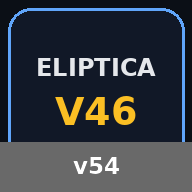
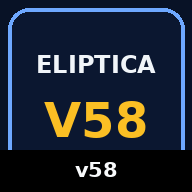
Add files via upload

diff --git a/app.js b/app.js
@@ -1,13 +1,15 @@
 (() => {
 'use strict';
-const APP_VERSION='v56';
-const BUILD='2026-04-09 23:59';
+const APP_VERSION='v58';
+const BUILD='2026-04-07 01:05';
 const $=id=>document.getElementById(id);
 const STATE_KEY=`eliptica_state_${APP_VERSION}`; const LAST_SESSION_KEY='lastCompletedSession'; const state={phase:'idle',plan:null,startTs:null,pausedAccumMs:0,pauseTs:null,elapsedSec:0,lastSec:-1,realOffset:0,history:[],logs:[],installPrompt:null,bannerIndex:0,bannerHoldMs:5000,bannerLastChange:0,bpmSamples:[],swReg:null,lastActionTs:0,lastRenderTick:0,voice:{supported:('speechSynthesis' in window),unlocked:false,enabled:true,voices:[],selectedURI:'',queue:[],speaking:false,lastByKey:{},volume:1,rate:1,browserNotify:false,beepEnabled:true},audio:{ctx:null,unlocked:false},alerts:{lastKey:{},lastSecChecked:-1,lastNotifTs:0},ble:{device:null,server:null,hrChar:null,connected:false,lastPacketTs:0,deviceName:'',autoAttempted:false}};
 const els={};
 const ids=['timelineBar','timelineMarkers','playhead','tickerNow','tickerMsg','tickerEta','sessionBadge','planTitle','timeBig','timeRealLabel','kPlanBig','kRealBig','bpmBig','bpmTargetLabel','avgPlanLabel','avgRealLabel','deviationTotalLabel','deviationSegmentLabel','realRateLabel','planRateLabel','waterCountLabel','upcomingBody','upcomingVisibleLabel','waterNextLabel','waterProgressBar','chipBle','chipPulse','chipSession','chipSaved','chipWater','chipAlerts','chipApp','chipTest','bleStatusLabel','bleBpmBig','ble5s','ble10s','ble30s','bleLastPkt','bleDeviceName','planInput','importOutput','versionLabel','pwaStateLabel','logBox','voiceSelect','voiceStatus','voiceVolumeRange','voiceVolumeVal','voiceRateRange','voiceRateVal','browserNotifyChk','voiceAlertsChk','beepAlertsChk'];
 function cacheEls(){ids.forEach(id=>els[id]=$(id)); if(els.versionLabel) els.versionLabel.textContent=`${APP_VERSION} · ${BUILD}`;}
 function addLog(msg){const t=new Date().toTimeString().slice(0,8); state.logs.push(`[${t}] ${msg}`); if(state.logs.length>800) state.logs.shift(); if(els.logBox){els.logBox.textContent=state.logs.join('\n'); els.logBox.scrollTop=els.logBox.scrollHeight;}}
+function setPwaState(msg){ if(els.pwaStateLabel) els.pwaStateLabel.textContent = msg; }
+function appUrl(path='index.html'){ return `./${path}?v=${APP_VERSION}&t=${Date.now()}`; }
 
 function unlockAudio(){
   try{
@@ -374,6 +376,7 @@ function bind(){
   B('bleDiagBtn','bleDiag',bleDiag);
   B('installAppBtn','installApp',installApp);
   B('updateAppBtn','updateApp',updateApp);
+  B('forceReloadBtn','forceReload',forceReloadApp);
   B('notifPermissionBtn','notifPermission',requestNotificationPermission);
   B('testNotifyBtn','testNotify',testNotify);
   B('refreshVoicesBtn','refreshVoices',()=>{ refreshVoices(); if(els.importOutput) els.importOutput.textContent = (state.voice.voices||[]).map(v=>`${v.name} · ${v.lang}`).join('\n') || 'Sin voces detectadas'; });
@@ -417,14 +420,14 @@ function bpmDisplay(){const arr=state.bpmSamples; if(!arr.length) return null; c
 function avgBpmWindow(secWindow){const now=Date.now(); const items=state.bpmSamples.filter(x=>now-x.ts<=secWindow*1000); if(!items.length) return null; return items.reduce((a,b)=>a+b.bpm,0)/items.length}
 function parsePlan(text){const lines=text.split(/\r?\n/).map(s=>s.trim()).filter(Boolean); const segments=[], water=[], bpmApp={}, bpmDay={}; let totalTime=null,totalKcal=null, mode=''; for(let i=0;i<lines.length;i++){const line=lines[i]; if(/^BPM OPERATIVO/i.test(line)){mode='bpmApp'; continue} if(/^BPM DEL DÍA/i.test(line)){mode='bpmDay'; continue} if(/^AGUA EN ELÍPTICA/i.test(line)){mode='water'; continue} if(/^TOTAL PREVISTO/i.test(line)){mode='total'; continue}
 const segLine=line.match(/^([A-Z])\)\s+(\d{2}:\d{2})\s*[·-].*?(TEST\s+)?NIVEL\s+(\d+)/i); if(segLine){const id=segLine[1]; const [mm,ss]=segLine[2].split(':').map(Number); const isTest=!!segLine[3]; const level=Number(segLine[4]); let kcalTarget=0; const next=lines[i+1]||''; const km=next.match(/objetivo\s*~?(\d+(?:[.,]\d+)?)(?:[–-](\d+(?:[.,]\d+)?))?/i); if(km) kcalTarget=Number(String(km[2]||km[1]).replace(',','.')); segments.push({id,durationSec:mm*60+ss,level,isTest,kcalTarget}); continue}
-const seg2=line.match(/^([A-Z])\)\s+\d{2}:\d{2}[–-]\d{2}:\d{2}\s*(?:→|->)\s*(TEST\s+)?NIVEL\s+(\d+)\s*(?:→|->)\s*~?(\d+(?:[.,]\d+)?)(?:[–-](\d+(?:[.,]\d+)?))?/i); if(seg2){segments.push({id:seg2[1],durationSec:0,level:Number(seg2[3]),isTest:!!seg2[2],kcalTarget:Number(String(seg2[4]||seg2[5]).replace(',','.'))}); continue}
+const seg2=line.match(/^([A-Z])\)\s+(\d{2}:\d{2})\s*[–-]\s*(\d{2}:\d{2})\s*(?:→|->)\s*(TEST\s+)?NIVEL\s+(\d+)\s*(?:→|->)\s*~?(\d+(?:[.,]\d+)?)(?:[–-](\d+(?:[.,]\d+)?))?/i); if(seg2){const [sh,sm]=seg2[2].split(':').map(Number); const [eh,em]=seg2[3].split(':').map(Number); let durationSec=((eh*60+em)-(sh*60+sm))*60; if(durationSec<=0) durationSec+=24*3600; segments.push({id:seg2[1],durationSec,level:Number(seg2[5]),isTest:!!seg2[4],kcalTarget:Number(String(seg2[7]||seg2[6]).replace(',','.'))}); continue}
 if(mode==='water'){const w=line.match(/(?:Minuto|min)\s*(\d{2}:\d{2})/i); if(w) water.push(w[1])}
 if(mode==='total'){const tm=line.match(/Tiempo:\s*(\d{2}:\d{2})/i); if(tm) totalTime=tm[1]; const km=line.match(/Kcal.*?~?(\d+(?:[.,]\d+)?)(?:[–-](\d+(?:[.,]\d+)?))?/i); if(km) totalKcal=Number(String(km[2]||km[1]).replace(',','.'))}
 if(mode==='bpmApp'){const bm=line.match(/Nivel\s+(\d+)\s*:\s*(\d+)[–-](\d+)/i); if(bm) bpmApp[Number(bm[1])]={min:Number(bm[2]),max:Number(bm[3])}}
 if(mode==='bpmDay'){const bm=line.match(/Nivel\s+(\d+).+?(\d+)[–-](\d+)/i); if(bm) bpmDay[Number(bm[1])]={min:Number(bm[2]),max:Number(bm[3])}}
 }
-if(!segments.length) throw new Error('No se detectaron tramos'); const duration=segments.reduce((a,s)=>a+s.durationSec,0); return {title:`ELÍPTICA ${APP_VERSION.toUpperCase()} · ${totalTime||fmt(duration)} · ~${Math.round(totalKcal||segments.reduce((a,s)=>a+s.kcalTarget,0))} kcal`,segments,water,bpmApp,bpmDay,totalTime,totalKcal,normalizedText:text}}
-function normalizeText(plan=state.plan){if(!plan) return ''; const rows=[]; rows.push(plan.title.replace(` ${APP_VERSION.toUpperCase()}`,'')); rows.push(''); plan.segments.forEach(seg=>{rows.push(`${seg.id}) ${fmt(seg.durationSec)} · ${seg.isTest?'TEST ':''}NIVEL ${seg.level}`); rows.push(`→ objetivo ~${seg.kcalTarget} kcal`); rows.push('');}); rows.push('AGUA EN ELÍPTICA'); plan.water.forEach(w=>rows.push(`Minuto ${w}`)); rows.push(''); rows.push('TOTAL PREVISTO'); rows.push(`- Tiempo: ${plan.totalTime||fmt(planDuration())}`); rows.push(`- Kcal máquina: ~${Math.round(plan.totalKcal||plan.segments.reduce((a,s)=>a+s.kcalTarget,0))} kcal`); return rows.join('\n')}
+if(!segments.length) throw new Error('No se detectaron tramos'); const duration=segments.reduce((a,s)=>a+s.durationSec,0); return {title:`ELÍPTICA ${APP_VERSION} · ${totalTime||fmt(duration)} · ~${Math.round(totalKcal||segments.reduce((a,s)=>a+s.kcalTarget,0))} kcal`,segments,water,bpmApp,bpmDay,totalTime,totalKcal,normalizedText:text}}
+function normalizeText(plan=state.plan){if(!plan) return ''; const rows=[]; rows.push(plan.title.replace(` ${APP_VERSION}`,'')); rows.push(''); plan.segments.forEach(seg=>{rows.push(`${seg.id}) ${fmt(seg.durationSec)} · ${seg.isTest?'TEST ':''}NIVEL ${seg.level}`); rows.push(`→ objetivo ~${seg.kcalTarget} kcal`); rows.push('');}); rows.push('AGUA EN ELÍPTICA'); plan.water.forEach(w=>rows.push(`Minuto ${w}`)); rows.push(''); rows.push('TOTAL PREVISTO'); rows.push(`- Tiempo: ${plan.totalTime||fmt(planDuration())}`); rows.push(`- Kcal máquina: ~${Math.round(plan.totalKcal||plan.segments.reduce((a,s)=>a+s.kcalTarget,0))} kcal`); return rows.join('\n')}
 function applyPlan(){const text=els.planInput.value.trim(); if(!text) throw new Error('No hay texto de plan'); state.plan=parsePlan(text); state.phase='idle'; state.elapsedSec=0; state.realOffset=0; state.history=[]; els.importOutput.textContent=normalizeText(); els.planTitle.textContent=state.plan.title; renderTimeline(); persist(); addLog(`[PLAN] Cargado · ${state.plan.segments.length} tramos · agua ${state.plan.water.length}`)}
 function previewPlan(){const text=els.planInput.value.trim(); const p=parsePlan(text); els.importOutput.textContent=`TRAMOS: ${p.segments.length}\nDURACIÓN: ${p.totalTime||fmt(p.segments.reduce((a,s)=>a+s.durationSec,0))}\nKCAL: ~${Math.round(p.totalKcal||p.segments.reduce((a,s)=>a+s.kcalTarget,0))}\nAGUA: ${p.water.join(', ')||'ninguna'}\nTESTS: ${p.segments.filter(s=>s.isTest).map(s=>s.id).join(', ')||'ninguno'}`}
 function normalizePlan(){const text=els.planInput.value.trim(); const p=parsePlan(text); els.planInput.value=normalizeText(p)}
@@ -456,7 +459,7 @@ function toggleRun(){
 function resetSession(){state.phase='idle'; state.startTs=null; state.pauseTs=null; state.pausedAccumMs=0; state.elapsedSec=0; state.realOffset=0; state.history=[]; state.lastSec=-1; persist(); renderAll(); addLog('[SESSION] Reseteada')}
 function capturePoint(force=false){if(!state.plan) return; const sec=currentElapsed(); const prevSec = state.lastSec; if(!force&&sec===state.lastSec) return; const info=currentSegInfo(sec); const point={sec,clock:fmt(sec),level:info?.seg?.level??null,segment:info?.seg?.id??null,kPlan:currentPlanKcal(),kReal:currentRealKcal(),bpm:bpmDisplay(),ts:Date.now()}; const h=state.history; if(h.length&&h[h.length-1].sec===sec) h[h.length-1]=point; else h.push(point); if(h.length>10000) h.shift(); state.lastSec=sec; if(prevSec>=0) evaluateAlertsRange(prevSec, sec, force?'force':'tick'); }
 function seek(delta){ if(!state.plan) throw new Error('Carga un plan primero'); const dur=planDuration(); const prev=currentElapsed(); const next=Math.max(0,Math.min(dur,prev+delta)); state.elapsedSec=next; if(state.phase==='running'){ state.startTs=Date.now()-(next*1000)-state.pausedAccumMs; } else { state.startTs=null; } state.lastSec=prev; capturePoint(true); persist(); addLog(`[SEEK] ${delta>0?'+':''}${delta}s → ${fmt(next)}`); if(state.phase==='running') evaluateAlertsRange(prev, next, 'seek'); renderAll(); }
-function adjustReal(delta){ if(!state.plan) throw new Error('Carga un plan primero'); capturePoint(true); let cur=currentRealKcal(); cur=round1(cur+delta); state.realOffset=round1(cur-currentPlanKcal()); addLog(`[KCAL] ajuste ${delta>0?'+':''}${delta.toFixed(1)} → real ${cur.toFixed(1)}`); renderAll(); persist(); }
+function adjustReal(delta){ if(!state.plan) throw new Error('Carga un plan primero'); capturePoint(true); let cur=currentRealKcal(); if(Math.abs(delta)===1){ cur=Math.floor(Math.max(0,cur+delta)); } else { cur=round1(cur+delta); } state.realOffset=round1(cur-currentPlanKcal()); addLog(`[KCAL] ajuste ${delta>0?'+':''}${delta.toFixed(1)} → real ${cur.toFixed(1)}`); renderAll(); persist(); }
 function buildMinuteRows(){const rows=[]; for(let m=0;m<=Math.floor((state.history.at(-1)?.sec||0)/60);m++){const items=state.history.filter(x=>Math.floor(x.sec/60)===m); if(!items.length) continue; const first=items[0], last=items.at(-1); const bpmItems=items.filter(x=>x.bpm!=null); rows.push({minute:m,clock:fmt(m*60),level:last.level,segment:last.segment,kcalStart:first.kReal,kcalEnd:last.kReal,kcalMinute:round2(last.kReal-first.kReal),kcalPerMin:round2((last.kReal-first.kReal)/Math.max(1,(items.length/60))),bpmAvg:bpmItems.length?round1(bpmItems.reduce((a,b)=>a+b.bpm,0)/bpmItems.length):null})} return rows}
 function buildSegmentSummary(){const out=[]; if(!state.plan) return out; let cursor=0; for(const seg of state.plan.segments){const items=state.history.filter(x=>x.sec>=cursor&&x.sec<=cursor+seg.durationSec); const startPlan=items[0]?.kPlan??0, endPlan=items.at(-1)?.kPlan??startPlan, startReal=items[0]?.kReal??0, endReal=items.at(-1)?.kReal??startReal; const bpmItems=items.filter(x=>x.bpm!=null); out.push({segment:seg.id,level:seg.level,duration:fmt(seg.durationSec),kcalPlan:round1(endPlan-startPlan),kcalReal:round1(endReal-startReal),deviation:round1((endReal-startReal)-(endPlan-startPlan)),bpmAvg:bpmItems.length?round1(bpmItems.reduce((a,b)=>a+b.bpm,0)/bpmItems.length):null}); cursor+=seg.durationSec} return out}
 function renderTimeline(){const bar=els.timelineBar,mks=els.timelineMarkers; bar.querySelectorAll('.seg').forEach(n=>n.remove()); mks.innerHTML=''; if(!state.plan) return; const total=planDuration(); state.plan.segments.forEach(seg=>{const el=document.createElement('div'); el.className='seg'+(seg.isTest?' test':''); el.dataset.level=String(seg.level); el.style.setProperty('--flex',seg.durationSec); el.textContent=`${seg.id} · ${seg.level}`; bar.appendChild(el)}); let c=0; const add=(left,label,water=false)=>{const d=document.createElement('div'); d.className='mkr'; d.style.left=left+'%'; d.innerHTML=`<div class="stick" style="background:${water?'#60a5fa':'#fff'}"></div><div class="label">${label}</div>`; mks.appendChild(d)}; state.plan.segments.forEach(seg=>{add((c/total)*100,`${fmt(c)} ${seg.id}`); c+=seg.durationSec}); add(100,`${fmt(total)} Fin`); state.plan.water.forEach(w=>{const [mm,ss]=w.split(':').map(Number); const sec=mm*60+ss; add((sec/total)*100,`${w} 💧`,true)})}
@@ -500,7 +503,7 @@ function renderAll(){renderMetrics(); renderPlayhead(); renderUpcoming(); render
 function persist(){try{localStorage.setItem(STATE_KEY,JSON.stringify({plan:state.plan,phase:state.phase,startTs:state.startTs,pausedAccumMs:state.pausedAccumMs,pauseTs:state.pauseTs,elapsedSec:currentElapsed(),realOffset:state.realOffset,history:state.history.slice(-5000)}))}catch(e){addLog('[SAVE] ERROR: '+(e.message||e))}}
 function loadPersisted(){try{const raw=localStorage.getItem(STATE_KEY); if(!raw) return; const d=JSON.parse(raw); Object.assign(state,{plan:d.plan||null,phase:d.phase||'idle',startTs:d.startTs||null,pausedAccumMs:d.pausedAccumMs||0,pauseTs:d.pauseTs||null,elapsedSec:d.elapsedSec||0,realOffset:d.realOffset||0,history:d.history||[]}); if(state.plan){els.importOutput.textContent=normalizeText(); els.planTitle.textContent=state.plan.title; renderTimeline()} addLog('[LOAD] Sesión recuperada desde guardado local')}catch(e){addLog('[LOAD] ERROR: '+(e.message||e))}}
 function resumeSavedSession(){loadPersisted(); renderAll(); if(state.plan) addLog('[LOAD] Reanudada desde guardado local'); else throw new Error('No hay sesión guardada')}
-function summaryText(){const segs=buildSegmentSummary(); const lines=[`ELÍPTICA ${APP_VERSION.toUpperCase()}`,`Tiempo: ${fmt(currentElapsed())}`,`Kcal plan: ${currentPlanKcal().toFixed(1)}`,`Kcal real: ${currentRealKcal().toFixed(1)}`,`Desvío total: ${totalDeviation().toFixed(1)} kcal`,`Ritmo real: ${realRate().toFixed(2)} kcal/min`,`Pulso: ${bpmDisplay()?.toFixed(1)??'--.-'}`,'']; segs.forEach(s=>lines.push(`${s.segment} · N${s.level} · plan ${s.kcalPlan} · real ${s.kcalReal} · desvío ${s.deviation}`)); return lines.join('\n')}
+function summaryText(){const segs=buildSegmentSummary(); const lines=[`ELÍPTICA ${APP_VERSION}`,`Tiempo: ${fmt(currentElapsed())}`,`Kcal plan: ${currentPlanKcal().toFixed(1)}`,`Kcal real: ${currentRealKcal().toFixed(1)}`,`Desvío total: ${totalDeviation().toFixed(1)} kcal`,`Ritmo real: ${realRate().toFixed(2)} kcal/min`,`Pulso: ${bpmDisplay()?.toFixed(1)??'--.-'}`,'']; segs.forEach(s=>lines.push(`${s.segment} · N${s.level} · plan ${s.kcalPlan} · real ${s.kcalReal} · desvío ${s.deviation}`)); return lines.join('\n')}
 function showFinalSummary(){const txt=summaryText(); els.importOutput.textContent=txt; localStorage.setItem(LAST_SESSION_KEY,JSON.stringify({elapsedSec:currentElapsed(),kReal:currentRealKcal(),summary:txt,when:Date.now()})); addLog('[SUMMARY] Resumen final generado')}
 function download(name, content, mime='text/plain;charset=utf-8'){const blob=new Blob([content],{type:mime}); const url=URL.createObjectURL(blob); const a=document.createElement('a'); a.href=url; a.download=name; document.body.appendChild(a); a.click(); a.remove(); setTimeout(()=>URL.revokeObjectURL(url),500)}
 function exportJson(){download(`eliptica_${APP_VERSION}.json`,JSON.stringify({version:APP_VERSION,build:BUILD,plan:state.plan,current:{elapsedSec:currentElapsed(),kPlan:currentPlanKcal(),kReal:currentRealKcal(),bpm:bpmDisplay()},history:state.history,segmentSummary:buildSegmentSummary(),logs:state.logs},null,2),'application/json'); addLog('[EXPORT] JSON exportado'); if(els.importOutput) els.importOutput.textContent='JSON exportado'}
@@ -511,10 +514,57 @@ function exportPlan(){const txt=state.plan?normalizeText():els.planInput.value; 
 function compareLast(){const raw=localStorage.getItem('lastCompletedSession'); if(!raw) throw new Error('No hay sesión anterior guardada'); const prev=JSON.parse(raw); els.importOutput.textContent=`COMPARAR CON ÚLTIMA\nAnterior kcal: ${prev.kReal??'--'}\nActual kcal: ${currentRealKcal().toFixed(1)}\nDiff kcal: ${((currentRealKcal()||0)-(prev.kReal||0)).toFixed(1)}`}
 async function clearAppData(){localStorage.clear(); sessionStorage.clear(); if('caches' in window){const keys=await caches.keys(); await Promise.all(keys.map(k=>caches.delete(k)))} if('serviceWorker' in navigator){const regs=await navigator.serviceWorker.getRegistrations(); await Promise.all(regs.map(r=>r.unregister()))} addLog('[CLEAR] Datos locales y caché borrados'); if(els.importOutput) els.importOutput.textContent='Datos locales y caché borrados'; setTimeout(()=>location.reload(),300)}
 async function installApp(){if(state.installPrompt) await state.installPrompt.prompt(); else addLog('[PWA] No hay prompt disponible')}
-async function registerSW(){if(!('serviceWorker' in navigator)) return; try{state.swReg=await navigator.serviceWorker.register('./sw.js'); addLog('[SW] registrado')}catch(e){addLog('[SW] ERROR: '+(e.message||e))}}
-async function updateApp(){if(!state.swReg) throw new Error('No hay service worker'); await state.swReg.update(); addLog('[PWA] Update solicitado'); if(state.swReg.waiting){state.swReg.waiting.postMessage({type:'SKIP_WAITING'}); location.reload()} else location.reload()}
+async function registerSW(){
+  if(!('serviceWorker' in navigator)){ setPwaState('Service Worker no soportado en este navegador.'); return; }
+  try{
+    navigator.serviceWorker.addEventListener('controllerchange', ()=>{ addLog('[SW] controllerchange'); setPwaState(`Eliptica PWA ${APP_VERSION} activa. Recargando…`); setTimeout(()=>location.reload(), 120); });
+    state.swReg = await navigator.serviceWorker.register(`./sw.js?v=${APP_VERSION}`, { updateViaCache:'none' });
+    addLog('[SW] registrado');
+    setPwaState(`Eliptica PWA ${APP_VERSION} lista. Puedes forzar actualización desde aquí.`);
+    state.swReg.addEventListener('updatefound', ()=>{
+      addLog('[SW] updatefound');
+      setPwaState('Actualización detectada. Pulsa “Actualizar app” para activarla.');
+      const nw = state.swReg.installing;
+      if(nw){
+        nw.addEventListener('statechange', ()=>{
+          addLog(`[SW] nuevo worker: ${nw.state}`);
+          if(nw.state==='installed' && navigator.serviceWorker.controller){
+            setPwaState('Nueva versión descargada. Pulsa “Actualizar app”.');
+          }
+        });
+      }
+    });
+  }catch(e){ addLog('[SW] ERROR: '+(e.message||e)); setPwaState('Error registrando Service Worker'); }
+}
+async function updateApp(){
+  if(!state.swReg) throw new Error('No hay service worker');
+  setPwaState('Buscando actualización…');
+  await state.swReg.update();
+  addLog('[PWA] Update solicitado');
+  if(state.swReg.waiting){
+    addLog('[PWA] waiting encontrado; skipWaiting enviado');
+    setPwaState('Nueva versión lista. Activando…');
+    state.swReg.waiting.postMessage({type:'SKIP_WAITING'});
+    return;
+  }
+  setPwaState('Recarga solicitada para buscar recursos nuevos…');
+  location.href = appUrl('index.html');
+}
+async function forceReloadApp(){
+  setPwaState('Borrando caché local y recargando limpio…');
+  addLog('[PWA] Forzar recarga limpia');
+  if('caches' in window){
+    const keys = await caches.keys();
+    await Promise.all(keys.filter(k=>/^eliptica-/i.test(k)).map(k=>caches.delete(k)));
+    addLog('[PWA] Cachés de la app borradas');
+  }
+  if(state.swReg){
+    try{ await state.swReg.unregister(); addLog('[PWA] SW desregistrado temporalmente'); }catch(e){ addLog('[PWA] SW unregister ERROR: '+(e.message||e)); }
+  }
+  location.href = appUrl('index.html');
+}
 function verifyAll(){const checks=[]; const push=(name,ok,detail='')=>{checks.push({name,ok,detail}); addLog(`[CHECK] ${name}: ${ok?'ok':'fail'}${detail?' · '+detail:''}`)}; push('DOM timeline',!!els.timelineBar); push('DOM ticker',!!els.tickerMsg); push('DOM BLE',!!$('bleConnectBtn')); push('Clipboard',!!navigator.clipboard||!!document.execCommand); push('Notifications','Notification' in window, ('Notification' in window ? Notification.permission : 'n/a')); push('Notify toggle', true, state.voice.browserNotify?'ON':'OFF'); push('Voice select', !!els.voiceSelect, state.voice.selectedURI||'sin seleccionar'); push('Web Bluetooth','bluetooth' in navigator);
-  push('SpeechSynthesis', state.voice.supported, `${state.voice.voices?.length||0} voces`); push('Service Worker','serviceWorker' in navigator); push('Parser',typeof parsePlan==='function'); push('Summary',typeof summaryText==='function'); push('Export CSV',typeof exportSessionCsv==='function'); push('Resume saved',typeof resumeSavedSession==='function'); push('Final summary',typeof showFinalSummary==='function'); push('Export JSON',typeof exportJson==='function'); push('Compare last',typeof compareLast==='function'); push('CSV tramos',typeof exportTramoCsv==='function'); push('Copy summary',typeof copyText==='function'); push('Export plan',typeof exportPlan==='function'); push('Clear app data',typeof clearAppData==='function'); push('Build',true,`${APP_VERSION} · ${BUILD}`); els.importOutput.textContent=checks.map(c=>`${c.ok?'OK':'FAIL'} · ${c.name}${c.detail?' · '+c.detail:''}`).join('\n')}
+  push('SpeechSynthesis', state.voice.supported, `${state.voice.voices?.length||0} voces`); push('Service Worker','serviceWorker' in navigator, state.swReg ? 'registrado' : 'pendiente'); push('PWA label', !!els.pwaStateLabel, els.pwaStateLabel?.textContent || ''); push('Parser',typeof parsePlan==='function'); push('Summary',typeof summaryText==='function'); push('Export CSV',typeof exportSessionCsv==='function'); push('Resume saved',typeof resumeSavedSession==='function'); push('Final summary',typeof showFinalSummary==='function'); push('Export JSON',typeof exportJson==='function'); push('Compare last',typeof compareLast==='function'); push('CSV tramos',typeof exportTramoCsv==='function'); push('Copy summary',typeof copyText==='function'); push('Export plan',typeof exportPlan==='function'); push('Clear app data',typeof clearAppData==='function'); push('Build',true,`${APP_VERSION} · ${BUILD}`); els.importOutput.textContent=checks.map(c=>`${c.ok?'OK':'FAIL'} · ${c.name}${c.detail?' · '+c.detail:''}`).join('\n')}
 async function bleConnect(){if(!navigator.bluetooth) throw new Error('Web Bluetooth no disponible'); const device=await navigator.bluetooth.requestDevice({filters:[{services:['heart_rate']}],optionalServices:['battery_service','device_information']}); await connectDevice(device)}
 async function bleReconnect(){if(state.ble.device) return connectDevice(state.ble.device); if(navigator.bluetooth.getDevices){const devices=await navigator.bluetooth.getDevices(); if(devices[0]) return connectDevice(devices[0])} throw new Error('No hay dispositivo previo')}
 async function bleDisconnect(){try{if(state.ble.hrChar&&state._hrHandler) state.ble.hrChar.removeEventListener('characteristicvaluechanged',state._hrHandler)}catch{} try{state.ble.server&&state.ble.server.disconnect()}catch{} state.ble.connected=false; addLog('[BLE] desconectado'); renderAll()}
@@ -528,6 +578,9 @@ function init(){
   state.voice.browserNotify = ('Notification' in window && Notification.permission==='granted');
   addLog(`[STARTUP] ${APP_VERSION} · ${BUILD}`);
   addLog('[STARTUP] UI enlazada y bucles iniciados');
+  setPwaState(`Eliptica PWA ${APP_VERSION} iniciada. Esperando estado de PWA…`);
+  window.addEventListener('online', ()=>{ addLog('[NET] online'); setPwaState(`Conexión recuperada · ${APP_VERSION}`); });
+  window.addEventListener('offline', ()=>{ addLog('[NET] offline'); setPwaState('Sin conexión. La app sigue con caché local.'); });
   if(state.voice.supported){
     if(typeof window.speechSynthesis.onvoiceschanged !== 'undefined'){
       window.speechSynthesis.onvoiceschanged = ()=>refreshVoices();

diff --git a/sw.js b/sw.js
@@ -1,6 +1,68 @@
-const CACHE='eliptica-v56-cache';
-const ASSETS=['./','./index.html','./app.js','./manifest.webmanifest','./icon-192.png','./icon-512.png'];
-self.addEventListener('install',e=>{self.skipWaiting();e.waitUntil(caches.open(CACHE).then(c=>c.addAll(ASSETS)))});
-self.addEventListener('activate',e=>{e.waitUntil((async()=>{const keys=await caches.keys();await Promise.all(keys.filter(k=>k!==CACHE).map(k=>caches.delete(k)));await self.clients.claim();})())});
-self.addEventListener('fetch',e=>{if(e.request.method!=='GET') return; e.respondWith(caches.match(e.request).then(r=>r||fetch(e.request).catch(()=>caches.match('./index.html'))))});
-self.addEventListener('message',e=>{if(e.data&&e.data.type==='SKIP_WAITING') self.skipWaiting()});
+const VERSION='v58';
+const CACHE=`eliptica-${VERSION}-cache`;
+const CORE=[
+  './',
+  './index.html?v=v58',
+  './app.js?v=v58',
+  './manifest.webmanifest?v=v58',
+  './icon-192.png?v=v58',
+  './icon-512.png?v=v58'
+];
+
+self.addEventListener('install',event=>{
+  self.skipWaiting();
+  event.waitUntil(caches.open(CACHE).then(cache=>cache.addAll(CORE)));
+});
+
+self.addEventListener('activate',event=>{
+  event.waitUntil((async()=>{
+    const keys=await caches.keys();
+    await Promise.all(keys.filter(k=>k!==CACHE).map(k=>caches.delete(k)));
+    await self.clients.claim();
+  })());
+});
+
+function isAppShell(request){
+  const url=new URL(request.url);
+  return request.mode==='navigate' || /\/(index\.html|app\.js|manifest\.webmanifest)$/i.test(url.pathname);
+}
+
+async function networkFirst(request){
+  const cache=await caches.open(CACHE);
+  try{
+    const response=await fetch(request,{cache:'no-store'});
+    if(response && response.ok) cache.put(request, response.clone());
+    return response;
+  }catch(err){
+    const cached=await cache.match(request, {ignoreSearch:false}) || await cache.match(request, {ignoreSearch:true});
+    if(cached) return cached;
+    return caches.match('./index.html?v=v58', {ignoreSearch:true});
+  }
+}
+
+async function cacheFirst(request){
+  const cache=await caches.open(CACHE);
+  const cached=await cache.match(request, {ignoreSearch:false}) || await cache.match(request, {ignoreSearch:true});
+  if(cached) return cached;
+  const response=await fetch(request);
+  if(response && response.ok) cache.put(request, response.clone());
+  return response;
+}
+
+self.addEventListener('fetch',event=>{
+  if(event.request.method!=='GET') return;
+  const url=new URL(event.request.url);
+  if(isAppShell(event.request)){
+    event.respondWith(networkFirst(event.request));
+    return;
+  }
+  if(/\.(png|jpg|jpeg|webp|svg)$/i.test(url.pathname)){
+    event.respondWith(cacheFirst(event.request));
+    return;
+  }
+  event.respondWith(cacheFirst(event.request));
+});
+
+self.addEventListener('message',event=>{
+  if(event.data && event.data.type==='SKIP_WAITING') self.skipWaiting();
+});
